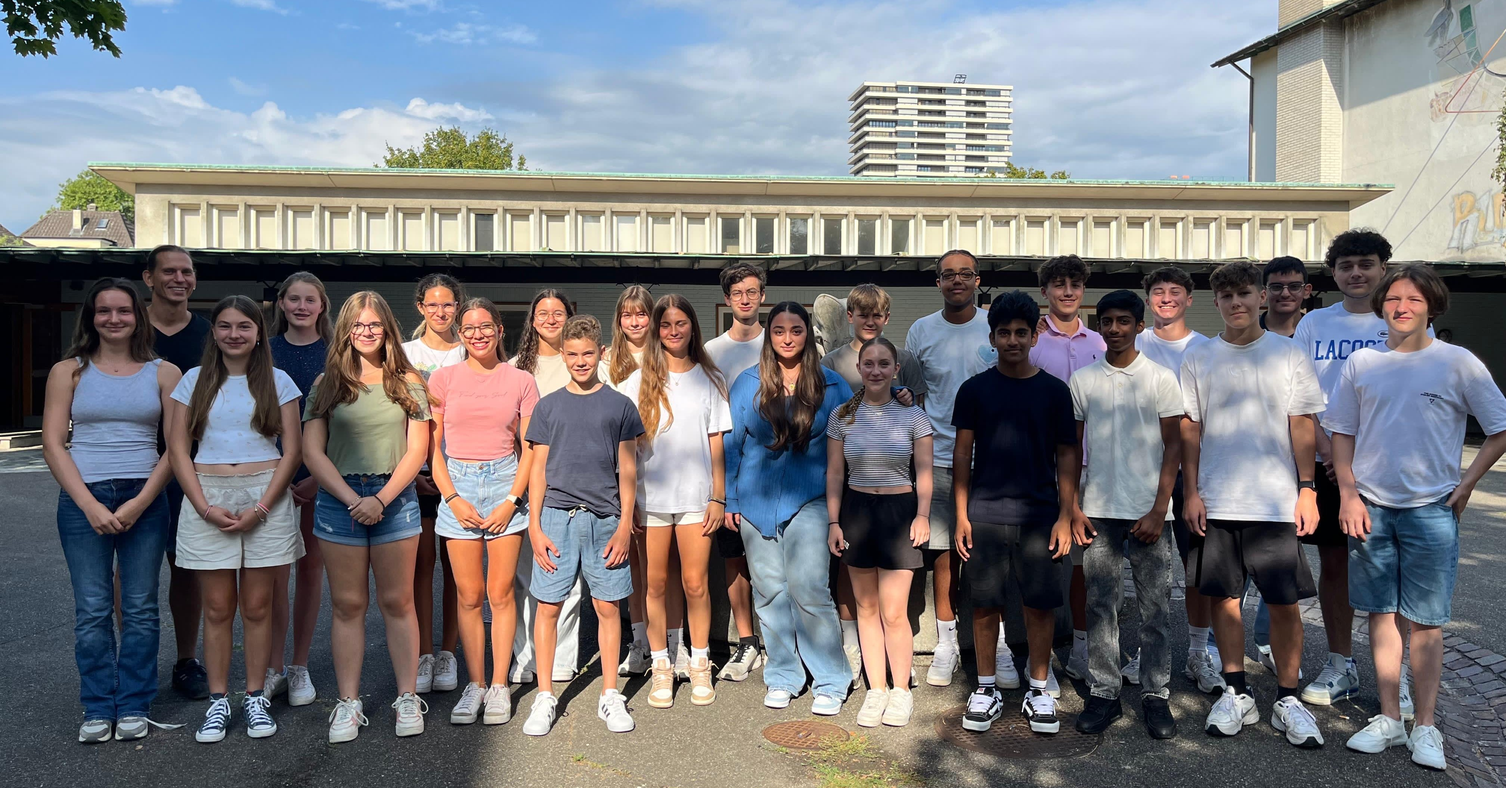
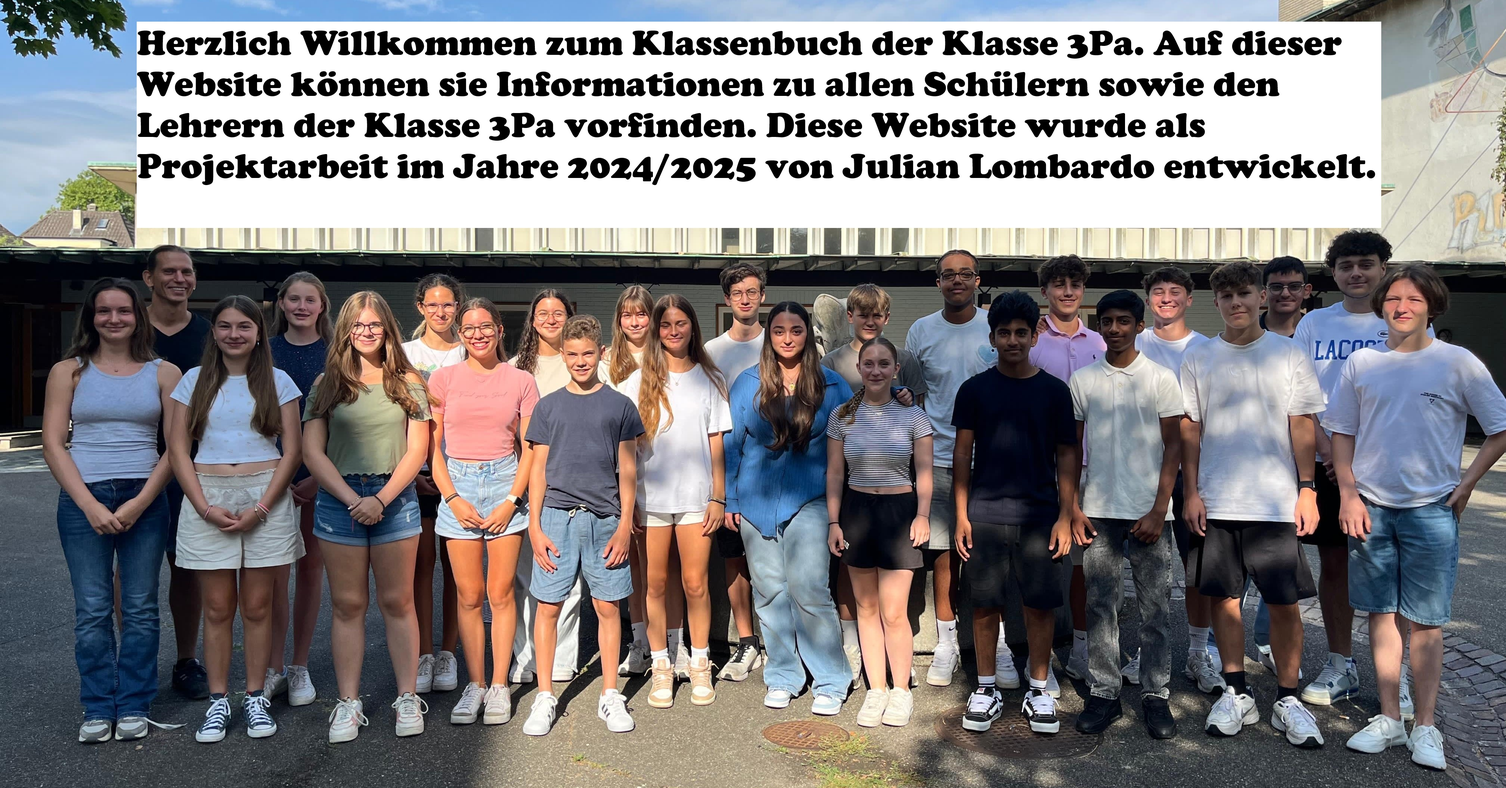
Cleaned up

Changed region(s): [[0.0938, 0.0, 0.9375, 0.3125]]

diff --git a/Lehrer/LehrerPage.html b/Lehrer/LehrerPage.html
@@ -64,107 +64,107 @@
     </div>
     <div id="LehrerContainer">
     <div class="Lehrer" id="BeatAckermann" onclick="fensterWechsel(this.id)" data-internal="true">
-        <img src="Fotos Lehrer/Passfoto_Julian Lombardo.jpg" alt="Foto">
+        <img src="Fotos Lehrer/NON.png" alt="Foto">
         <h3>Beat <br> Ackermann</h3>
     </div>
     <div class="Lehrer" id="ChasperAlbrecht" onclick="fensterWechsel(this.id)" data-internal="true">
-        <img src="Fotos Lehrer/Passfoto_Julian Lombardo.jpg" alt="Foto">
+        <img src="Fotos Lehrer/NON.png" alt="Foto">
         <h3>Chasper <br> Albrecht</h3>
     </div>
     <div class="Lehrer" id="SimoneBeck" onclick="fensterWechsel(this.id)" data-internal="true">
-        <img src="Fotos Lehrer/Passfoto_Julian Lombardo.jpg" alt="Foto">
+        <img src="Fotos Lehrer/NON.png" alt="Foto">
         <h3>Simone <br> Beck</h3>
     </div>
     <div class="Lehrer" id="ArianaBrahaj" onclick="fensterWechsel(this.id)" data-internal="true">
-        <img src="Fotos Lehrer/Passfoto_Julian Lombardo.jpg" alt="Foto">
+        <img src="Fotos Lehrer/NON.png" alt="Foto">
         <h3>Ariana <br> Brahaj</h3>
     </div>
     <div class="Lehrer" id="KarinBusch" onclick="fensterWechsel(this.id)" data-internal="true">
-        <img src="Fotos Lehrer/Passfoto_Julian Lombardo.jpg" alt="Foto">
+        <img src="Fotos Lehrer/NON.png" alt="Foto">
         <h3>Karin <br> Busch</h3>
     </div>
     <div class="Lehrer" id="VeraCaggegi" onclick="fensterWechsel(this.id)" data-internal="true">
-        <img src="Fotos Lehrer/Passfoto_Julian Lombardo.jpg" alt="Foto">
+        <img src="Fotos Lehrer/NON.png" alt="Foto">
         <h3>Vera <br> Caggegi</h3>
     </div>
     <div class="Lehrer" id="SarahDolbik" onclick="fensterWechsel(this.id)" data-internal="true">
-        <img src="Fotos Lehrer/Passfoto_Julian Lombardo.jpg" alt="Foto">
+        <img src="Fotos Lehrer/NON.png" alt="Foto">
         <h3>Sarah <br> Dolbik</h3>
     </div>
     <div class="Lehrer" id="MartinaDöring" onclick="fensterWechsel(this.id)" data-internal="true">
-        <img src="Fotos Lehrer/Passfoto_Julian Lombardo.jpg" alt="Foto">
+        <img src="Fotos Lehrer/NON.png" alt="Foto">
         <h3>Martina <br> Döring</h3>
     </div>
     <div class="Lehrer" id="ErichGlanzmann" onclick="fensterWechsel(this.id)" data-internal="true">
-        <img src="Fotos Lehrer/Passfoto_Julian Lombardo.jpg" alt="Foto">
+        <img src="Fotos Lehrer/NON.png" alt="Foto">
         <h3>Erich <br> Glanzmann</h3>
     </div>
     <div class="Lehrer" id="JasminGrogg" onclick="fensterWechsel(this.id)" data-internal="true">
-        <img src="Fotos Lehrer/Passfoto_Julian Lombardo.jpg" alt="Foto">
+        <img src="Fotos Lehrer/NON.png" alt="Foto">
         <h3>Jasmin <br> Grogg</h3>
     </div>
     <div class="Lehrer" id="BelindaHolliger" onclick="fensterWechsel(this.id)" data-internal="true">
-        <img src="Fotos Lehrer/Passfoto_Julian Lombardo.jpg" alt="Foto">
+        <img src="Fotos Lehrer/NON.png" alt="Foto">
         <h3>Belinda <br> Holliger</h3>
     </div>
     <div class="Lehrer" id="AnnagretJeger" onclick="fensterWechsel(this.id)" data-internal="true">
-        <img src="Fotos Lehrer/Passfoto_Julian Lombardo.jpg" alt="Foto">
+        <img src="Fotos Lehrer/NON.png" alt="Foto">
         <h3>Annagret <br> Jeger</h3>
     </div>
     <div class="Lehrer" id="SimonMatiz" onclick="fensterWechsel(this.id)" data-internal="true">
-        <img src="Fotos Lehrer/Passfoto_Julian Lombardo.jpg" alt="Foto">
+        <img src="Fotos Lehrer/NON.png" alt="Foto">
         <h3>Simon <br> Matiz</h3>
     </div>
     <div class="Lehrer" id="AnneMeier" onclick="fensterWechsel(this.id)" data-internal="true">
-        <img src="Fotos Lehrer/Passfoto_Julian Lombardo.jpg" alt="Foto">
+        <img src="Fotos Lehrer/NON.png" alt="Foto">
         <h3>Anne <br> Meier</h3>
     </div>
     <div class="Lehrer" id="DavidNeugebauer" onclick="fensterWechsel(this.id)" data-internal="true">
-        <img src="Fotos Lehrer/Passfoto_Julian Lombardo.jpg" alt="Foto">
+        <img src="Fotos Lehrer/NON.png" alt="Foto">
         <h3>David <br> Neugebauer</h3>
     </div>
     <div class="Lehrer" id="VictoriaNjoki" onclick="fensterWechsel(this.id)" data-internal="true">
-        <img src="Fotos Lehrer/Passfoto_Julian Lombardo.jpg" alt="Foto">
+        <img src="Fotos Lehrer/NON.png" alt="Foto">
         <h3>Victoria <br> Njoki</h3>
     </div>
     <div class="Lehrer" id="KathrinRentsch" onclick="fensterWechsel(this.id)" data-internal="true">
-        <img src="Fotos Lehrer/Passfoto_Julian Lombardo.jpg" alt="Foto">
+        <img src="Fotos Lehrer/NON.png" alt="Foto">
         <h3>Kathrin <br> Rentsch</h3>
     </div>
     <div class="Lehrer" id="" onclick="fensterWechsel(this.id)" data-internal="true">
-        <img src="Fotos Lehrer/Passfoto_Julian Lombardo.jpg" alt="Foto">
+        <img src="Fotos Lehrer/NON.png" alt="Foto">
         <h3>Philip <br> Sieber</h3>
     </div>
     <div class="Lehrer" id="LeaWaldner" onclick="fensterWechsel(this.id)" data-internal="true">
-        <img src="Fotos Lehrer/Passfoto_Julian Lombardo.jpg" alt="Foto">
+        <img src="Fotos Lehrer/NON.png" alt="Foto">
         <h3>Lea <br> Waldner</h3>
     </div>
     <div class="Lehrer" id="DaielVolonté" onclick="fensterWechsel(this.id)" data-internal="true">
-        <img src="Fotos Lehrer/Passfoto_Julian Lombardo.jpg" alt="Foto">
+        <img src="Fotos Lehrer/NON.png" alt="Foto">
         <h3>Daniel <br> Volonté</h3>
     </div>
     <div class="Lehrer" id="LiaZapana" onclick="fensterWechsel(this.id)" data-internal="true">
-        <img src="Fotos Lehrer/Passfoto_Julian Lombardo.jpg" alt="Foto">
+        <img src="Fotos Lehrer/NON.png" alt="Foto">
         <h3>Lia <br> Zapana</h3>
     </div>
     <div class="Lehrer" id="" onclick="fensterWechsel(this.id)" data-internal="true">
-        <img src="Fotos Lehrer/Passfoto_Julian Lombardo.jpg" alt="Foto">
+        <img src="Fotos Lehrer/NON.png" alt="Foto">
         <h3>XYZ <br> </h3>
     </div>
     <div class="Lehrer" id="" onclick="fensterWechsel(this.id)" data-internal="true">
-        <img src="Fotos Lehrer/Passfoto_Julian Lombardo.jpg" alt="Foto">
+        <img src="Fotos Lehrer/NON.png" alt="Foto">
         <h3>XYZ <br> </h3>
     </div>
     <div class="Lehrer" id="" onclick="fensterWechsel(this.id)" data-internal="true">
-        <img src="Fotos Lehrer/Passfoto_Julian Lombardo.jpg" alt="Foto">
+        <img src="Fotos Lehrer/NON.png" alt="Foto">
         <h3>XYZ <br> </h3>
     </div>
     <div class="Lehrer" id="" onclick="fensterWechsel(this.id)" data-internal="true">
-        <img src="Fotos Lehrer/Passfoto_Julian Lombardo.jpg" alt="Foto">
+        <img src="Fotos Lehrer/NON.png" alt="Foto">
         <h3>XYZ <br> </h3>
     </div>
     <div class="Lehrer" id="" onclick="fensterWechsel(this.id)" data-internal="true">
-        <img src="Fotos Lehrer/Passfoto_Julian Lombardo.jpg" alt="Foto">
+        <img src="Fotos Lehrer/NON.png" alt="Foto">
         <h3>XYZ <br> </h3>
     </div>
     </div>

diff --git a/JS Code/Timer.js b/JS Code/Timer.js
@@ -30,9 +30,9 @@ function refreshTimer() {
 // Timer
 function startCountdown() {
     function countdown() {
-        if (Seconds === 0 && Minutes === 0) {
-            console.log("Countdown beendet");
-            return; // Countdown stoppen
+        if (Minutes === 0 & Seconds === 0) {
+            localStorage.setItem('Login', "false");
+            window.location.replace(LocationReplacer);
         }
 
         if (Seconds === 0) {
@@ -44,11 +44,6 @@ function startCountdown() {
 
         login = localStorage.getItem("Login");
         if (login === "false") {
-            window.location.replace(LocationReplacer);
-        }
-
-        if (Minutes === 0 & Seconds === 0) {
-            localStorage.setItem('Login', "false");
             window.location.replace(LocationReplacer);
         }
 

diff --git a/HomePage/HomePage.html b/HomePage/HomePage.html
@@ -10,15 +10,6 @@
         #Hintergrundbild{
             max-width: 100%;
         }
-        #HomeText{
-            position: absolute;
-            left: 2%;
-            top: 4%;
-            z-index: 100;
-            text-align: center;
-            inline-size: 96%;
-            font: 30px Arial white;
-        }
     </style>
 </head>
 
@@ -36,7 +27,6 @@
 
     <img src="IMG_1390.jpeg" id="Hintergrundbild" alt="Hintergrundbild">
 
-    <p id="HomeText">Herzlich Willkommen zum Klassenbuch der Klasse 3Pa. Auf dieser Website können sie Informationen zu allen Schülern sowie den Lehrern der Klasse 3Pa vorfinden. Diese Website wurde als Projektarbeit im Jahre 2024/2025 von Julian Lombardo entwickelt.</p>
     <script>
         let LocationReplacer = "../index.html";
     </script>

diff --git a/index.html b/index.html
@@ -72,7 +72,10 @@
         if (Password==PasswordInputed){
             localStorage.setItem('Login', "true");
             window.location.replace("HomePage/HomePage.html");
-       }
+        }
+        else {
+            alert("Falsches Passwort");
+        }
        }
 
        addEventListener('keypress', function (event) {

diff --git a/Klassenfotos/Klassenfotos.html b/Klassenfotos/Klassenfotos.html
@@ -51,7 +51,7 @@
     <script>
         let LocationReplacer = "../index.html"
     </script>
-    <!--<script src="../JS Code/Timer.js"></script>-->
+    <script src="../JS Code/Timer.js"></script>
 </body>
 
 </html>
